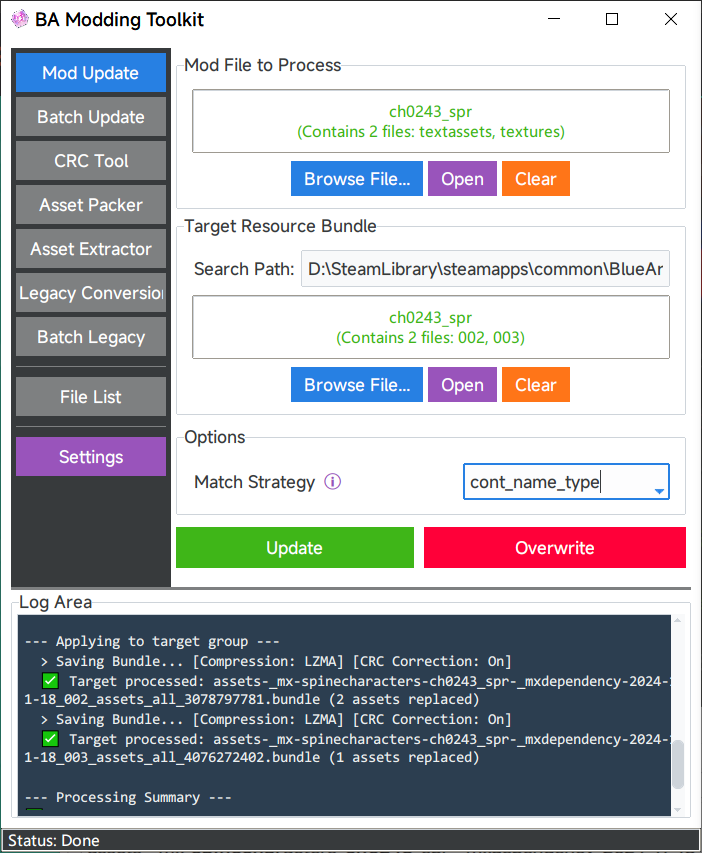
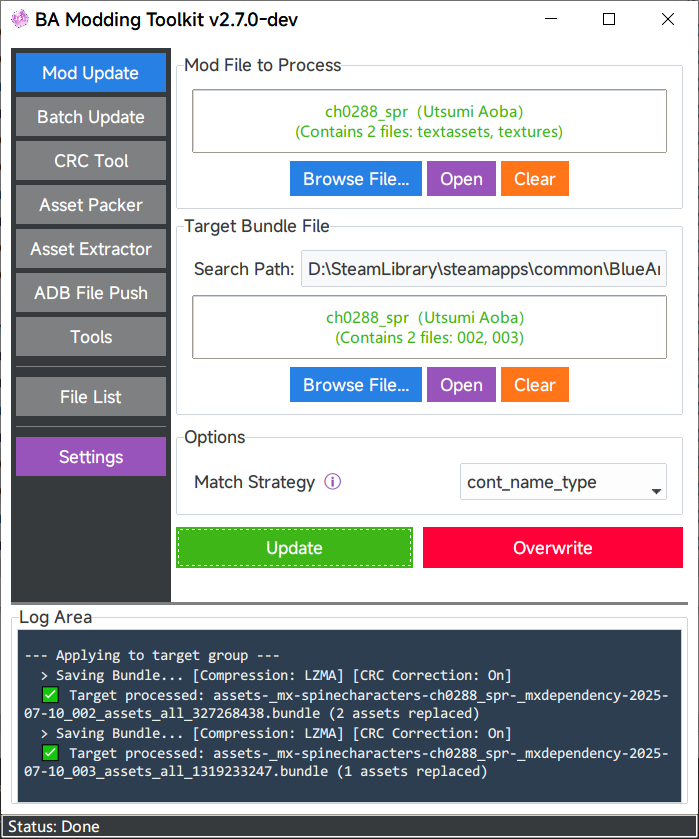
chore: release v2.7.0 并更新功能配置
- 更新匹配策略默认值为cont_name_type
- 重构文档与目录结构，移除旧版转换功能
- 添加Mod报告、修复客户端、备份Mod等工具功能
- 更新CLI命令列表与项目文件结构
- 更新帮助文档图片资源

Changed region(s): [[0.0, 0.0, 1.0, 1.0], [0.8412, 0.0, 0.9013, 0.031], [0.9313, 0.0, 0.9614, 0.031]]

diff --git a/src/ba_modding_toolkit/gui/tabs/mod_update_tab.py b/src/ba_modding_toolkit/gui/tabs/mod_update_tab.py
@@ -21,7 +21,7 @@ class ModUpdateTab(TabFrame):
         self.source_paths: list[Path] = []
         self.target_paths: list[Path] = []
         self.current_file_pairs: list[FilePair] = []
-        self.match_strategy_var = tk.StringVar(value='path_id')
+        self.match_strategy_var = tk.StringVar(value='cont_name_type')
         self._adb_remote_target_paths: list[str] = []  # ADB 模式下目标的远程路径
         self._search_path_var = None  # 延迟初始化，在 create_widgets 中绑定
         super().__init__(*args, **kwargs)

diff --git a/src/ba_modding_toolkit/gui/tabs/batch_update_tab.py b/src/ba_modding_toolkit/gui/tabs/batch_update_tab.py
@@ -19,7 +19,7 @@ class BatchUpdateTab(TabFrame):
 
     def __init__(self, *args, **kwargs):
         self.current_file_pairs: list[FilePair] = []
-        self.match_strategy_var = tk.StringVar(value='path_id')
+        self.match_strategy_var = tk.StringVar(value='cont_name_type')
         self.workers_var = tk.IntVar(value=min(os.cpu_count() or 4, 8))
         self._adb_remote_paths: list[str] = []  # ADB 模式下目标的远程路径
         super().__init__(*args, **kwargs)

diff --git a/src/ba_modding_toolkit/report.py b/src/ba_modding_toolkit/report.py
@@ -1,4 +1,4 @@
-# log.report.py
+# report.py
 """Mod 报告生成核心逻辑"""
 
 from dataclasses import dataclass, field

diff --git a/README.md b/README.md
@@ -48,8 +48,10 @@ The program contains multiple functionalities:
 - **CRC Tool**: CRC checksum calculation and correction functionality
 - **Asset Packer**: Pack asset files from a folder into a Bundle file, replacing the corresponding assets in the Bundle
 - **Asset Extractor**: Extract specified types of assets from Bundle files
-- **Legacy Conversion**: Convert between Legacy format(old global version) and Modern format(JP and new global version)
-- **Batch Legacy**: Batch convert Legacy format to Modern format
+- **Tools**
+  - Generate Mod Report：Generate a report of all Mod files in the game directory.
+  - Fix Abnormal Client：Fix the "abnormal client" issue.
+  - Backup Mods：Backup all Mod files in the game directory.
 - **ADB File Push**: Push local files to Android devices using ADB commands.
 - **File List**: View and manage all Bundle files in the specified directory.
 
@@ -81,7 +83,10 @@ Configure the path of the `SpineSkeletonDataConverter.exe` program in the settin
 
 **[ww-rm/SpineViewer](https://github.com/ww-rm/SpineViewer)**
 
-This tool can preview and render Spine skeleton animation files. You can configure the path of the `SpineViewerCLI.exe` program in the settings interface and preview the Spine animation in the "File List" window.
+该工具可以预览与渲染 Spine 的骨骼动画文件。您可以在设置界面配置 `SpineViewerCLI.exe` 程序的路径来供本程序调用。
+- 在“文件列表”窗口中右键预览
+- 在“资源提取”功能中，可选在解包之后渲染预览图。
+- 在“Mod 报告”功能中，可选在生成报告时渲染预览图。
 
 ### ADB (Android Debug Bridge)
 
@@ -98,8 +103,8 @@ This tool can communicate with Android devices. You can configure the path of `a
 
 A reference table that records the mapping between in-game character names and their corresponding internal file IDs (e.g., `CH0288` → Utsumi Aoba).
 
-- In the "File List" window, after parsing the internal ID from a Bundle file name, the actual character name can be displayed according to this reference table.
-- Support in more features is planned for future updates.
+- 在各个功能中，解析Bundle文件的文件名获得内部ID之后，可以根据该对照表显示角色实际名称。
+- 也用作生成 Mod 报告时，根据角色内部ID显示角色名称。
 
 ## Command Line Interface (CLI)
 
@@ -115,18 +120,17 @@ All operations can be executed via the `bamt-cli` command. You can use `--help` 
 # View all available commands
 bamt-cli -h
 
+# View environment information
+bamt-cli env
+
 # View detailed help and examples for a specific command
 bamt-cli update -h
 bamt-cli batch-update -h
-bamt-cli merge -h
-bamt-cli split -h
-bamt-cli batch-legacy -h
 bamt-cli pack -h
 bamt-cli extract -h
 bamt-cli crc -h
-
-# View environment information
-bamt-cli env
+bamt-cli report -h
+bamt-cli backup -h
 ```
 
 > [!NOTE]
@@ -185,6 +189,8 @@ BA-Modding-Toolkit/
 │ ├── core.py        # Core processing logic
 │ ├── searching.py   # Searching logic
 │ ├── bundle.py      # Bundle class
+│ ├── spine.py       # Spine-related utilities
+│ ├── report.py      # Mod report generator
 │ ├── naming.py      # File naming logic
 │ ├── models.py      # Data models
 │ ├── i18n.py        # Internationalization functionality
@@ -199,24 +205,27 @@ BA-Modding-Toolkit/
 │ │ ├── __init__.py
 │ │ ├── main.py         # GUI program main entry point
 │ │ ├── app.py          # Main application App class
-│ │ ├── base_tab.py     # TabFrame base class
 │ │ ├── components.py   # UI components, themes, logging
 │ │ ├── configs.py      # Configuration definitions
 │ │ ├── utils.py        # UI related utility functions
 │ │ ├── windows/        # Individual windows
 │ │ │ ├── __init__.py
-│ │ │ ├── adb_browser.py        # ADB Browser window
-│ │ │ ├── dialogs.py            # Settings dialogs 
-│ │ │ └── file_list_window.py   # File List window
+│ │ │ ├── adb_browser.py           # ADB Browser window
+│ │ │ ├── dialogs.py               # Settings dialogs
+│ │ │ ├── abnormal_check_dialog.py # Abnormal Client Check
+│ │ │ ├── report_dialog.py         # Report Dialog
+│ │ │ ├── backup_dialog.py         # Backup Dialog
+│ │ │ └── file_list_window.py      # File List window
 │ │ └── tabs/           # Feature tabs
 │ │   ├── __init__.py
+│ │   ├── base_tab.py              # TabFrame base class
 │ │   ├── mod_update_tab.py        # Mod Update tab
 │ │   ├── batch_update_tab.py      # Batch Update tab
 │ │   ├── crc_tool_tab.py          # CRC Tool tab
 │ │   ├── asset_packer_tab.py      # Asset Packer tab
 │ │   ├── asset_extractor_tab.py   # Asset Extractor tab
-│ │   ├── legacy_conversion_tab.py # Legacy Conversion tab
-│ │   └── batch_legacy_tab.py      # Batch Legacy tab
+│ │   ├── adb_push_tab.py          # ADB Push tab
+│ │   └── tools_tab.py             # Tools tab
 │ ├── assets/         # Project assets
 │ └── locales/        # Language files
 ├── tests/            # Pytest test cases folder
